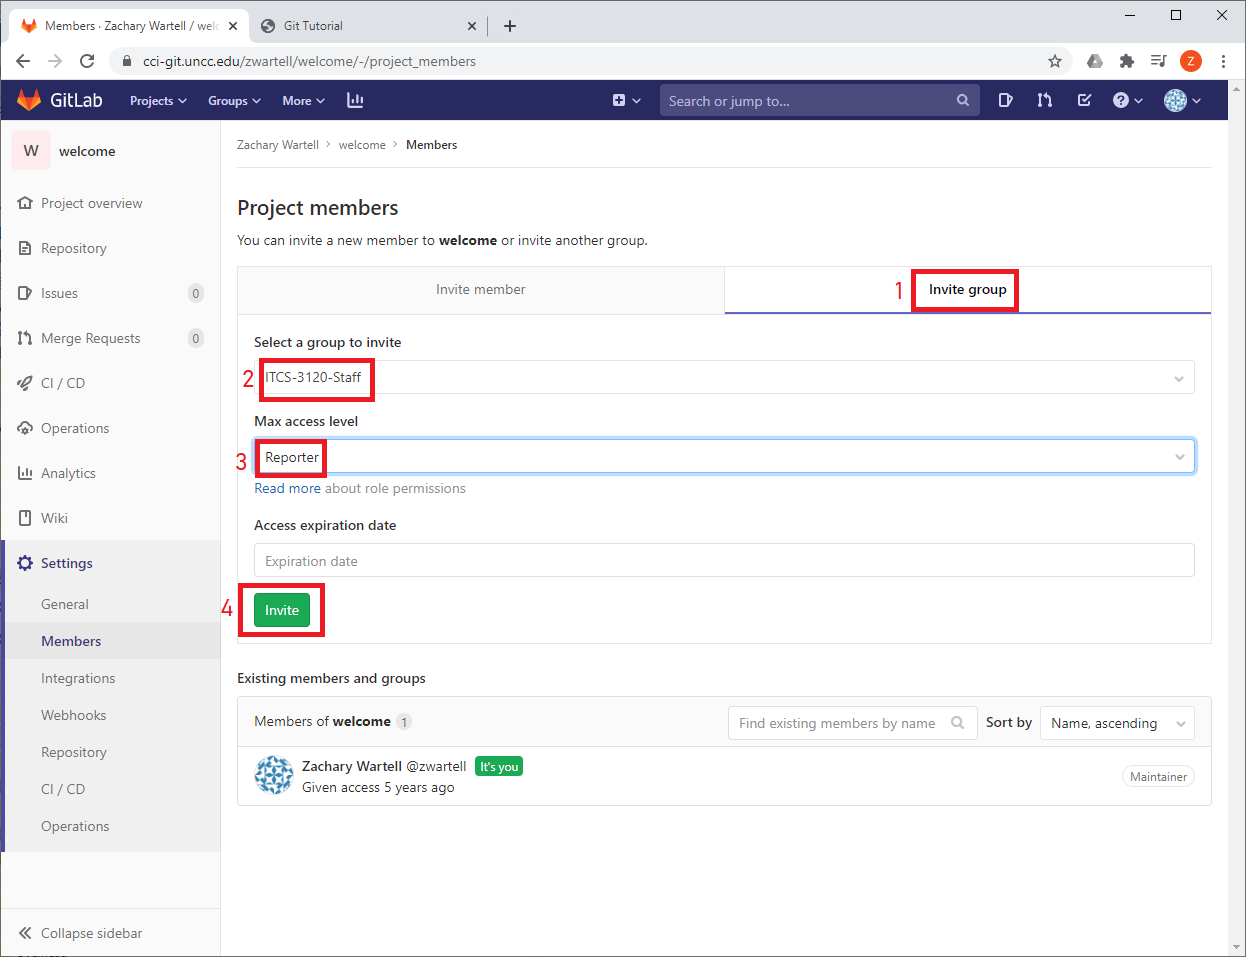
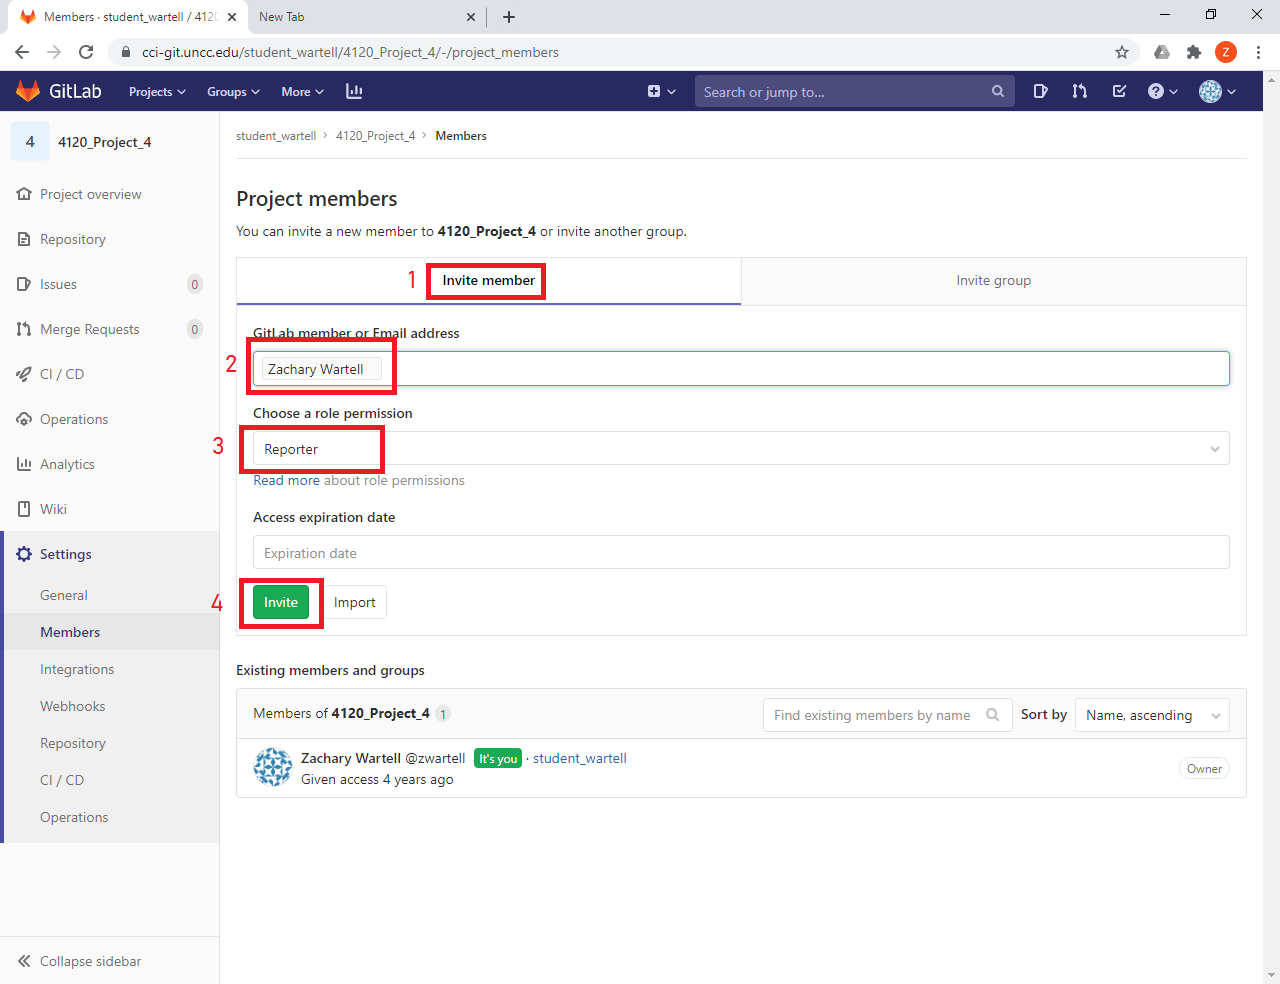
-reverted instructions about using Group Reporter permission and returned to adding each staff member separately.

Changed region(s): [[0.0, 0.0, 1.0, 0.8788], [0.5795, 0.697, 0.9759, 0.8182], [0.0, 0.9697, 0.122, 1.0]]

diff --git a/html/Site Root/Git Tutorial.html b/html/Site Root/Git Tutorial.html
@@ -1781,7 +1781,7 @@
           <h2 id="cci-gitunccedu_URL_List">cci-git.uncc.edu URL List</h2>
           [<em>YourServer</em>=<strong>cci-git</strong>]
           <div class="Server_Cci_Git">
-            <p> Access <span class="Server_Name"> cci-git.uncc.edu </span>use
+            <p> Access <span class="Server_Name"> cci-git.uncc.edu </span>using
               the HTTPS protocol. Below is a list of the URL’s you will
               typically use. See Section <a href="#Accessing_Git_Server_Using_HTTPS_and_Credentials">Accessing_Git_Server_Using_HTTPS_and_Credentials</a>
               for instructions on accessing these git URLs.<br>
@@ -2213,23 +2213,32 @@
                         <figure class="Screen_Capture" tabindex="1"> <img src="images/cci-git-Project_Settings2.png"
                             alt="TortoiseGit-untracked.png" width="500"> </figure>
                       </li>
-                      <li>Next, you add access permission for the group of staff
-                        for your class.&nbsp;&nbsp; Depending on what course you
-                        are in, the group name will be something like
-                        ITCS-3120-Staff, ITCS-6120-Staff, etc.<br>
+                      <li>This opens the<span class="Program_Name"> Project
+                          members</span> tab (shown below).&nbsp; Now, you will
+                        add access permission for each staff member in your
+                        course.&nbsp;&nbsp; Staff members include:<br>
+                        <ul>
+                          <li>the professor</li>
+                          <li>each TA</li>
+                        </ul>
                         <br>
-                        Select <span class="Program_Name">Invite Group</span>.&nbsp;
-                        Select the appropriate group name.&nbsp;&nbsp; Give that
-                        group <b>Reporter</b> access in the <span class="Program_Name">Project
-                          Access</span> menu.&nbsp; Then select&nbsp; <span class="Program_Name">"Invite"</span>.
+                        (1) Select <span class="Program_Name">Invite Member</span>.&nbsp;
+                        (2) Select GitLab member using the staff members email
+                        address or name (available in Canvas).&nbsp;&nbsp; (3)
+                        In the <span class="Program_Name">Choose a role
+                          Permission</span> menu, give the member <b>Reporter</b>
+                        permission.&nbsp;&nbsp; (4) Then select&nbsp; <span class="Program_Name">"Invite"</span>.
+                        <br>
+                        <br>
+                        Repeat (2) through (4) for each staff member.<br>
+                        <br>
+                        After that the added staff members should appear in the
+                        <span class="Program_Name"></span><span class="Program_Name">Existing
+                          members and Groups</span> list.<br>
                         <figure class="Screen_Capture" tabindex="1"> <img src="images/cci-git-Add-Members.png"
                             alt="TortoiseGit-untracked.png" width="500"> </figure>
                       </li>
-                      <li>The result will be similar to below.<br>
-                        <figure class="Screen_Capture" tabindex="1"> <img src="images/cci-git-Existing-Members.png"
-                            alt="TortoiseGit-untracked.png" width="500"> </figure>
-                      </li>
-                      <li> Finally, you should disable the Auto DevOps feature
+                      <li>Finally, you should disable the Auto DevOps feature
                         for your project -- otherwise the Auto DevOps feature
                         will run "CI/CD" functionality that you do not need when
                         you make commits and you will likely get error messages
